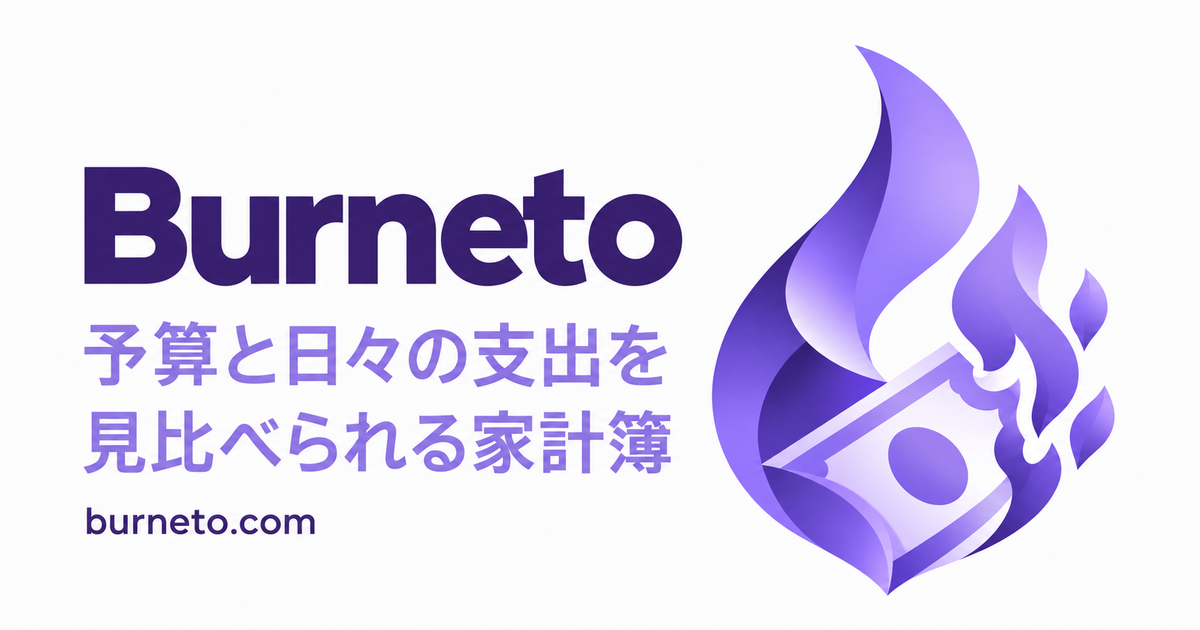
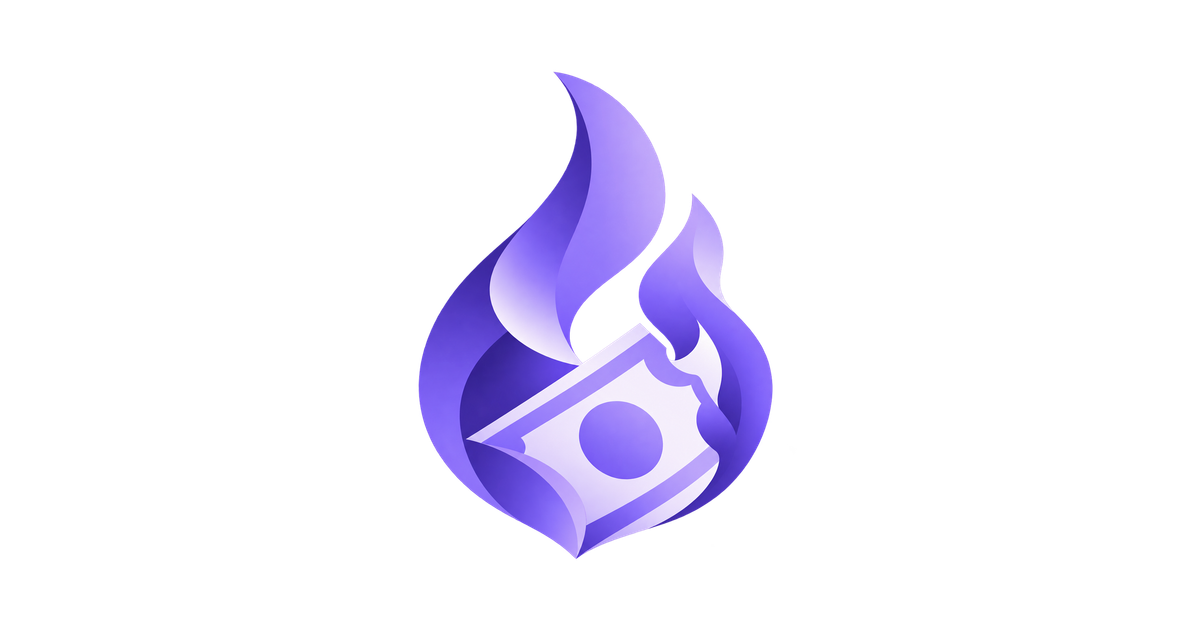
fix: 共通OGP画像を既存アイコンだけに変更
承認された画像要件に合わせて画像内の文字を除き、OGPとX Cardsの画像altを同期する。

diff --git a/apps/web/index.html b/apps/web/index.html
@@ -26,10 +26,7 @@
     <meta property="og:image:type" content="image/png" />
     <meta property="og:image:width" content="1200" />
     <meta property="og:image:height" content="630" />
-    <meta
-      property="og:image:alt"
-      content="Burnetoの紫の炎と紙幣のロゴ。予算と日々の支出を見比べられる家計簿。"
-    />
+    <meta property="og:image:alt" content="Burnetoの紫の炎と紙幣のアイコン。" />
     <meta name="twitter:card" content="summary_large_image" />
     <meta name="twitter:title" content="Burneto | 予算と日々の支出を見比べられる家計簿" />
     <meta
@@ -37,10 +34,7 @@
       content="Burnetoは、予算と日々の支出を見比べられる家計簿です。支払いを記録して、今月の支出や予算の残りを確認できます。"
     />
     <meta name="twitter:image" content="https://burneto.com/ogp.png" />
-    <meta
-      name="twitter:image:alt"
-      content="Burnetoの紫の炎と紙幣のロゴ。予算と日々の支出を見比べられる家計簿。"
-    />
+    <meta name="twitter:image:alt" content="Burnetoの紫の炎と紙幣のアイコン。" />
   </head>
   <body>
     <div id="root"></div>
